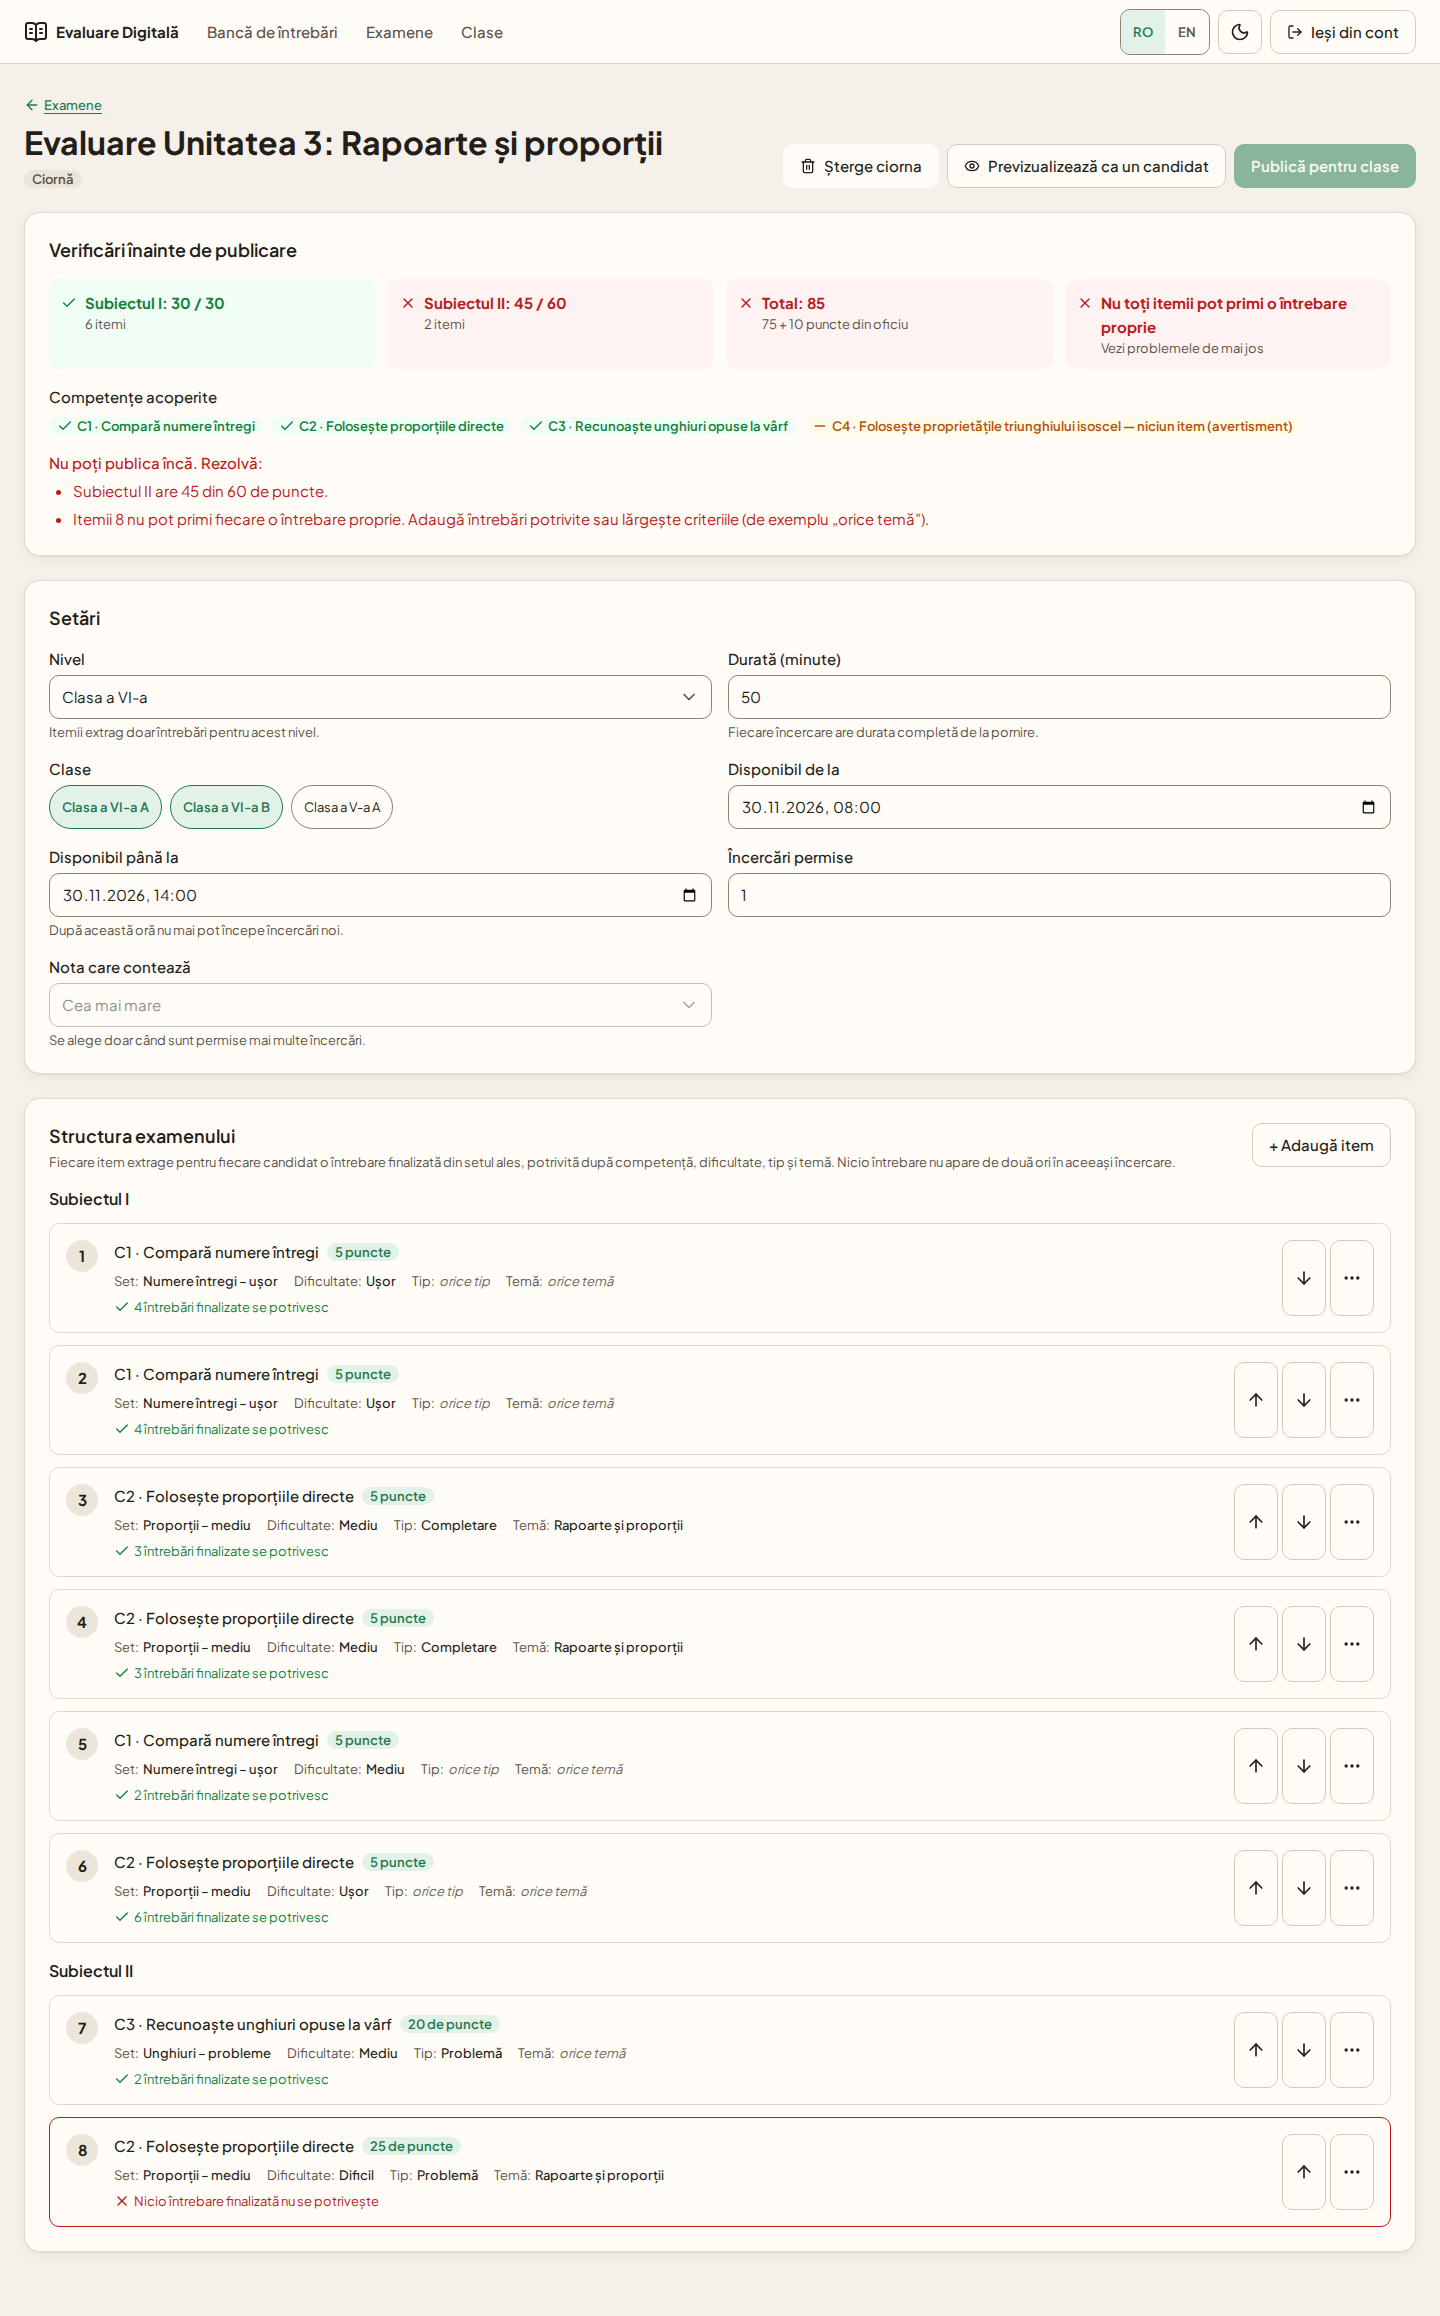
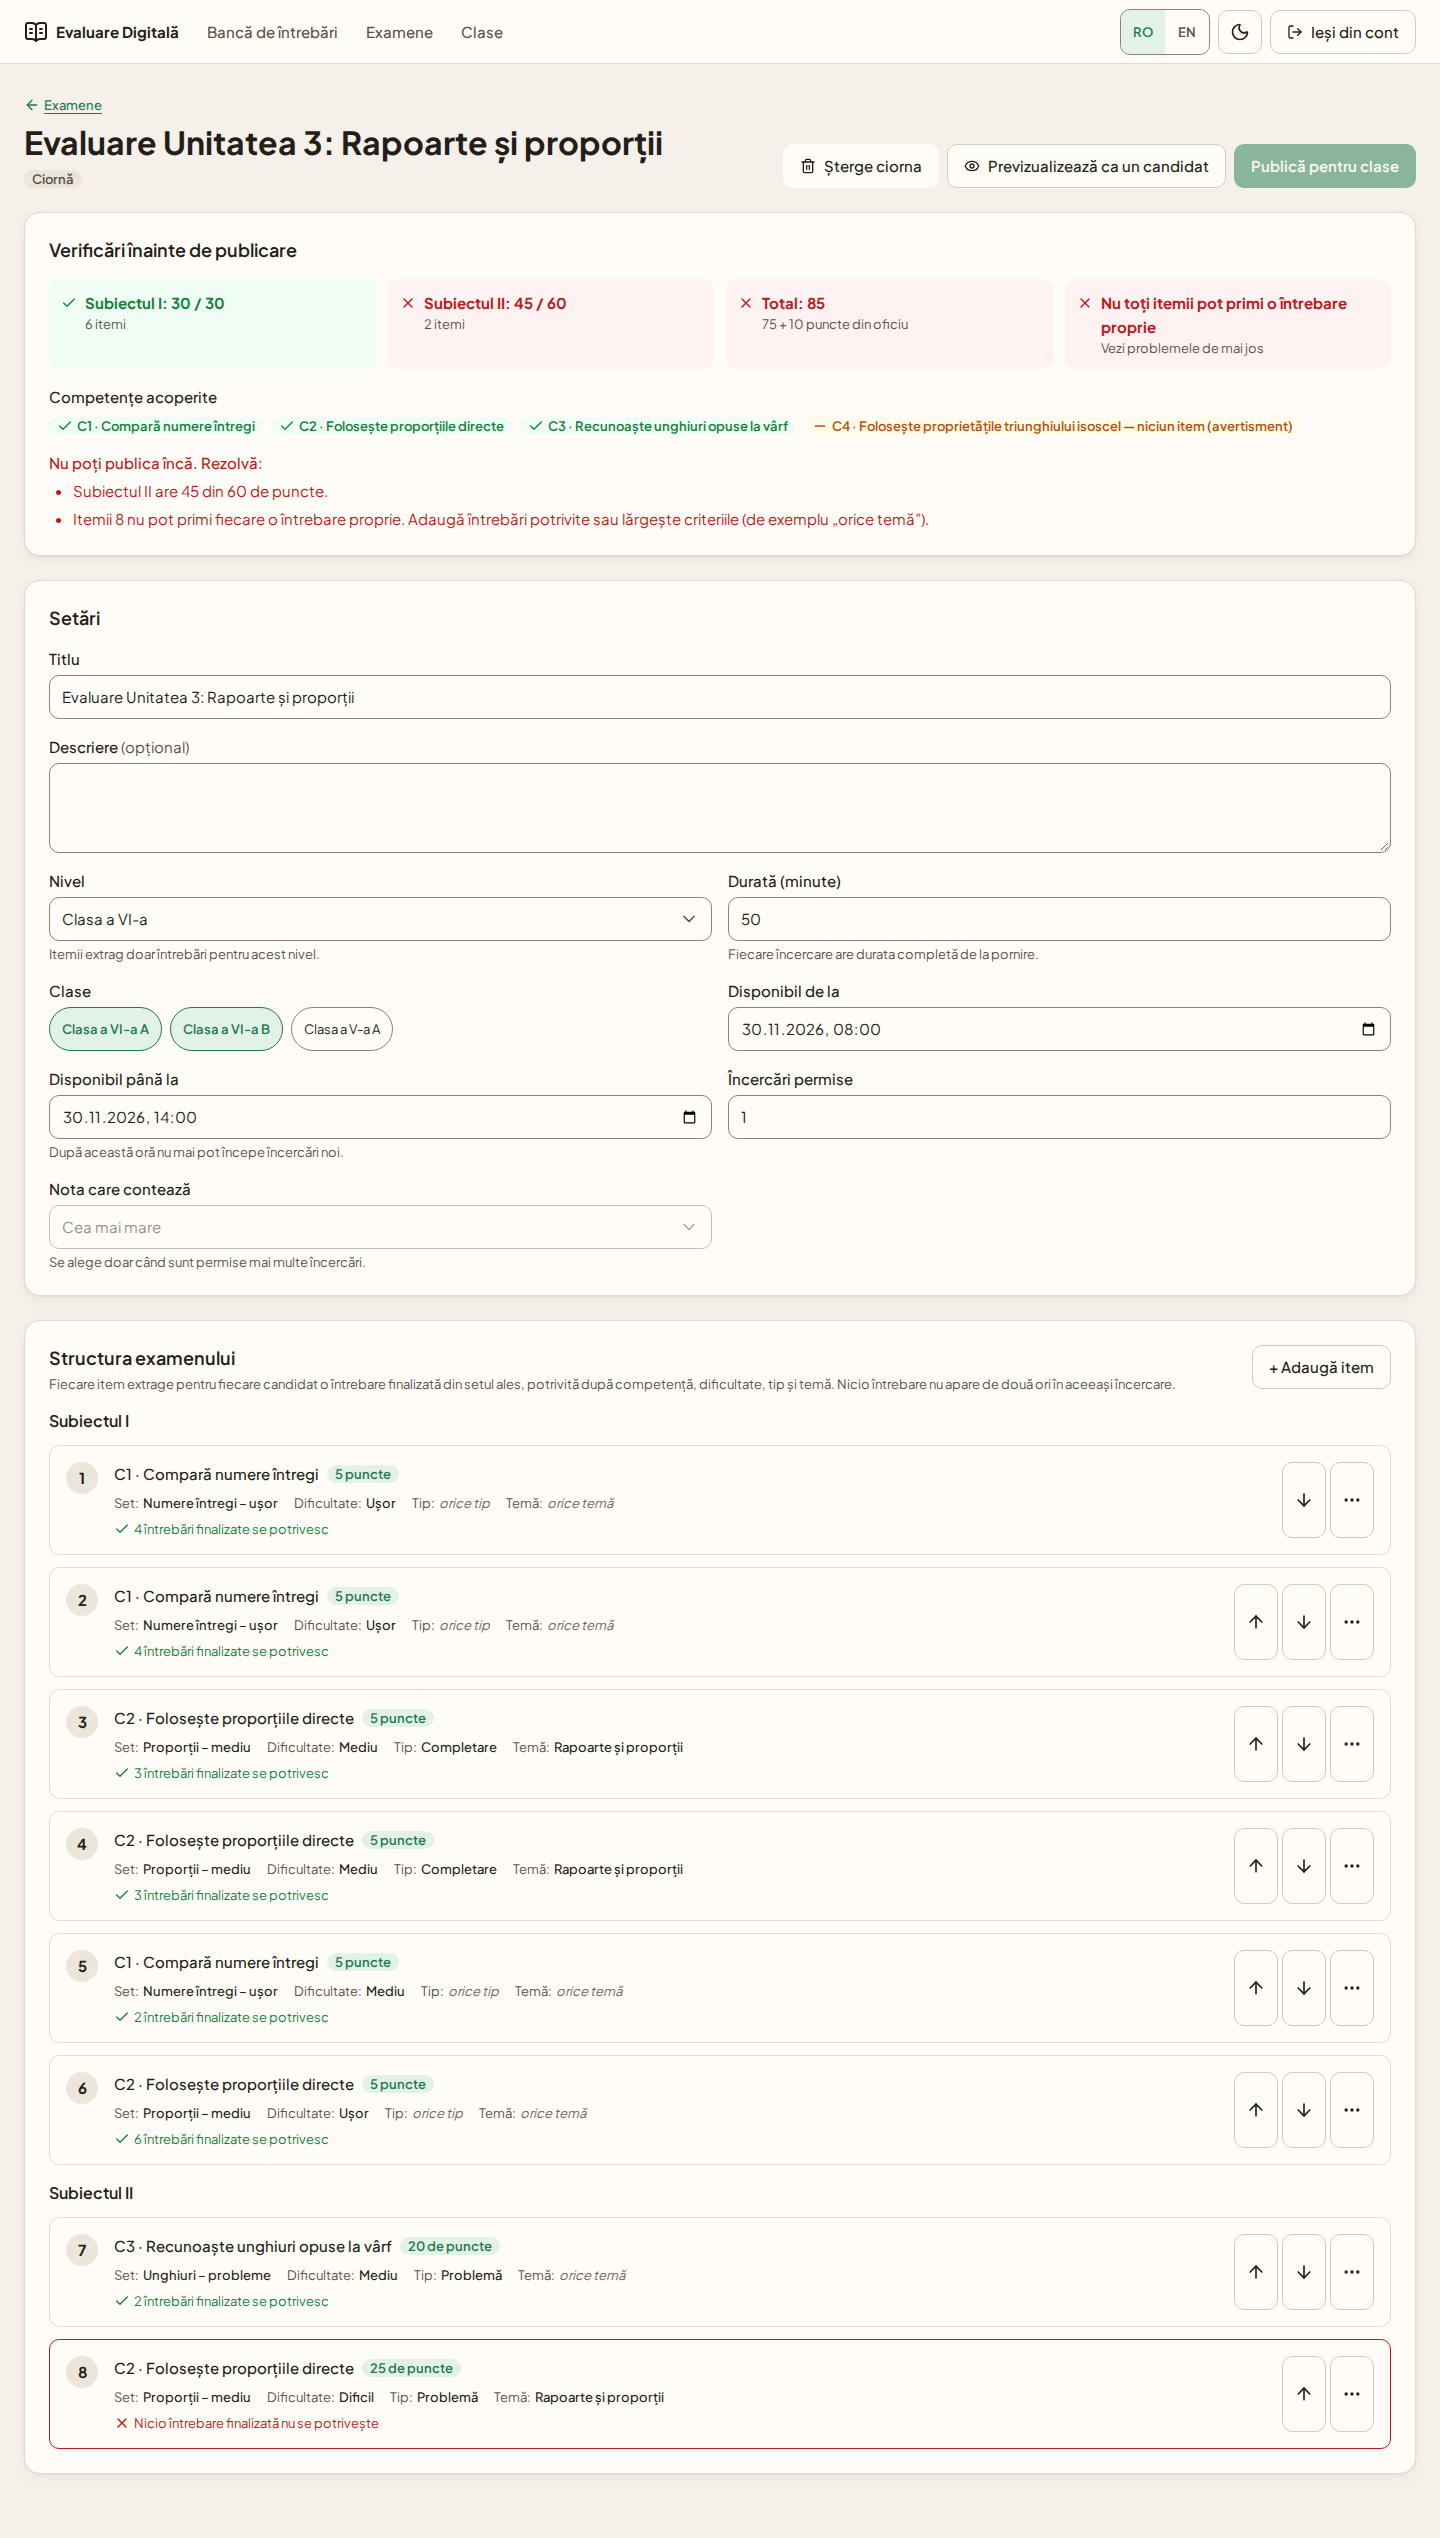
feat(frontend): edit the exam's title and description in the builder, also after publishing (DS-008, Q-060)
An empty title shows its error and is never sent (C-005 requires one). Where Candidates see the
description stays open (Q-064, P7).

diff --git a/frontend/src/pages/examiner/exams/SettingsCard.tsx b/frontend/src/pages/examiner/exams/SettingsCard.tsx
@@ -5,14 +5,17 @@ import { GRADES, type Ref } from '../../../api/questions'
 import SelectField from '../../../components/SelectField'
 import TextField from '../../../components/TextField'
 import { focusRing } from '../../../components/styles'
+import { TextAreaField } from '../questions/ui'
 import { fromLocalInput, toLocalInput } from './format'
 
 // DS-008 "Setări" (D-012, D-015, D-021): every change is queued for autosave. Once published,
-// only the end of the window changes (Q-060).
+// only the title, the description and the end of the window change (Q-060).
 export default function SettingsCard({ exam, classes, onChange }: { exam: Exam; classes: Ref[]; onChange: (patch: ExamPatch) => void }) {
   const { t } = useTranslation()
   const locked = exam.status === 'published'
   const [form, setForm] = useState({
+    title: exam.title,
+    description: exam.description ?? '',
     grade_level: exam.grade_level ? String(exam.grade_level) : '',
     duration_minutes: exam.duration_minutes ? String(exam.duration_minutes) : '',
     available_from: toLocalInput(exam.available_from),
@@ -34,6 +37,31 @@ export default function SettingsCard({ exam, classes, onChange }: { exam: Exam; 
     <section aria-labelledby="settings-heading" className="grid gap-4 rounded-lg border border-subtle bg-surface p-6 shadow-subtle">
       <h2 id="settings-heading" className="text-h2">{t('exams.settings')}</h2>
       <div className="grid items-start gap-4 tablet:grid-cols-2">
+        <div className="tablet:col-span-2">
+          <TextField
+            id="exam-title"
+            label={t('exams.titleField')}
+            maxLength={255}
+            value={form.title}
+            error={form.title.trim() ? undefined : t('exams.problem.required.title')}
+            onChange={(e) => {
+              const value = e.target.value
+              setForm((f) => ({ ...f, title: value }))
+              // An empty title is never sent: the API requires one (C-005).
+              if (value.trim()) onChange({ title: value.trim() })
+            }}
+          />
+        </div>
+        <div className="tablet:col-span-2">
+          <TextAreaField
+            id="exam-description"
+            label={<>{t('exams.descriptionField')} <span className="font-normal text-secondary">{t('exams.optional')}</span></>}
+            rows={3}
+            maxLength={5000}
+            value={form.description}
+            onChange={(e) => set('description', e.target.value, { description: e.target.value.trim() ? e.target.value : null })}
+          />
+        </div>
         <SelectField id="exam-grade" label={t('exams.level')} help={t('exams.levelHelp')} disabled={locked} value={form.grade_level} onChange={(e) => set('grade_level', e.target.value, { grade_level: e.target.value ? Number(e.target.value) : null })}>
           <option value="">{t('exams.choose')}</option>
           {GRADES.map((g) => <option key={g} value={g}>{t(`bank.grade.${g}`)}</option>)}
